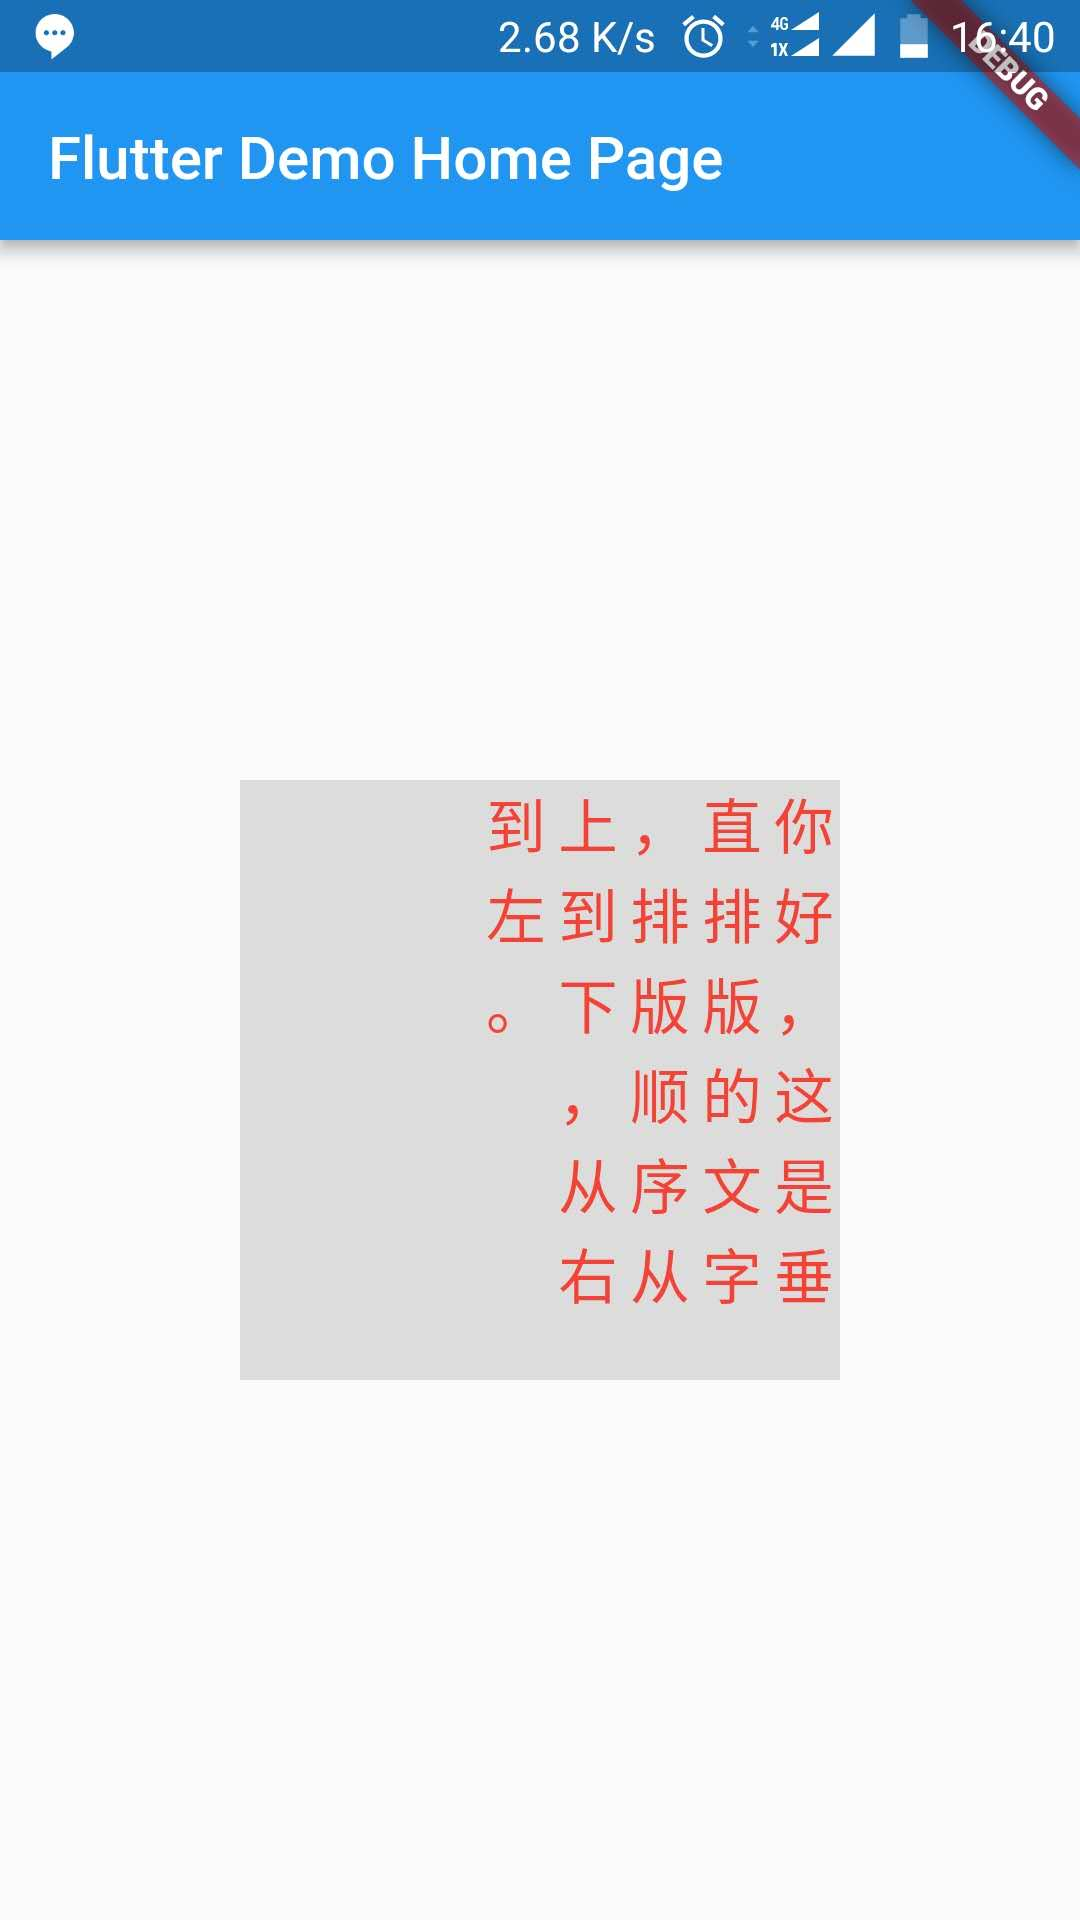
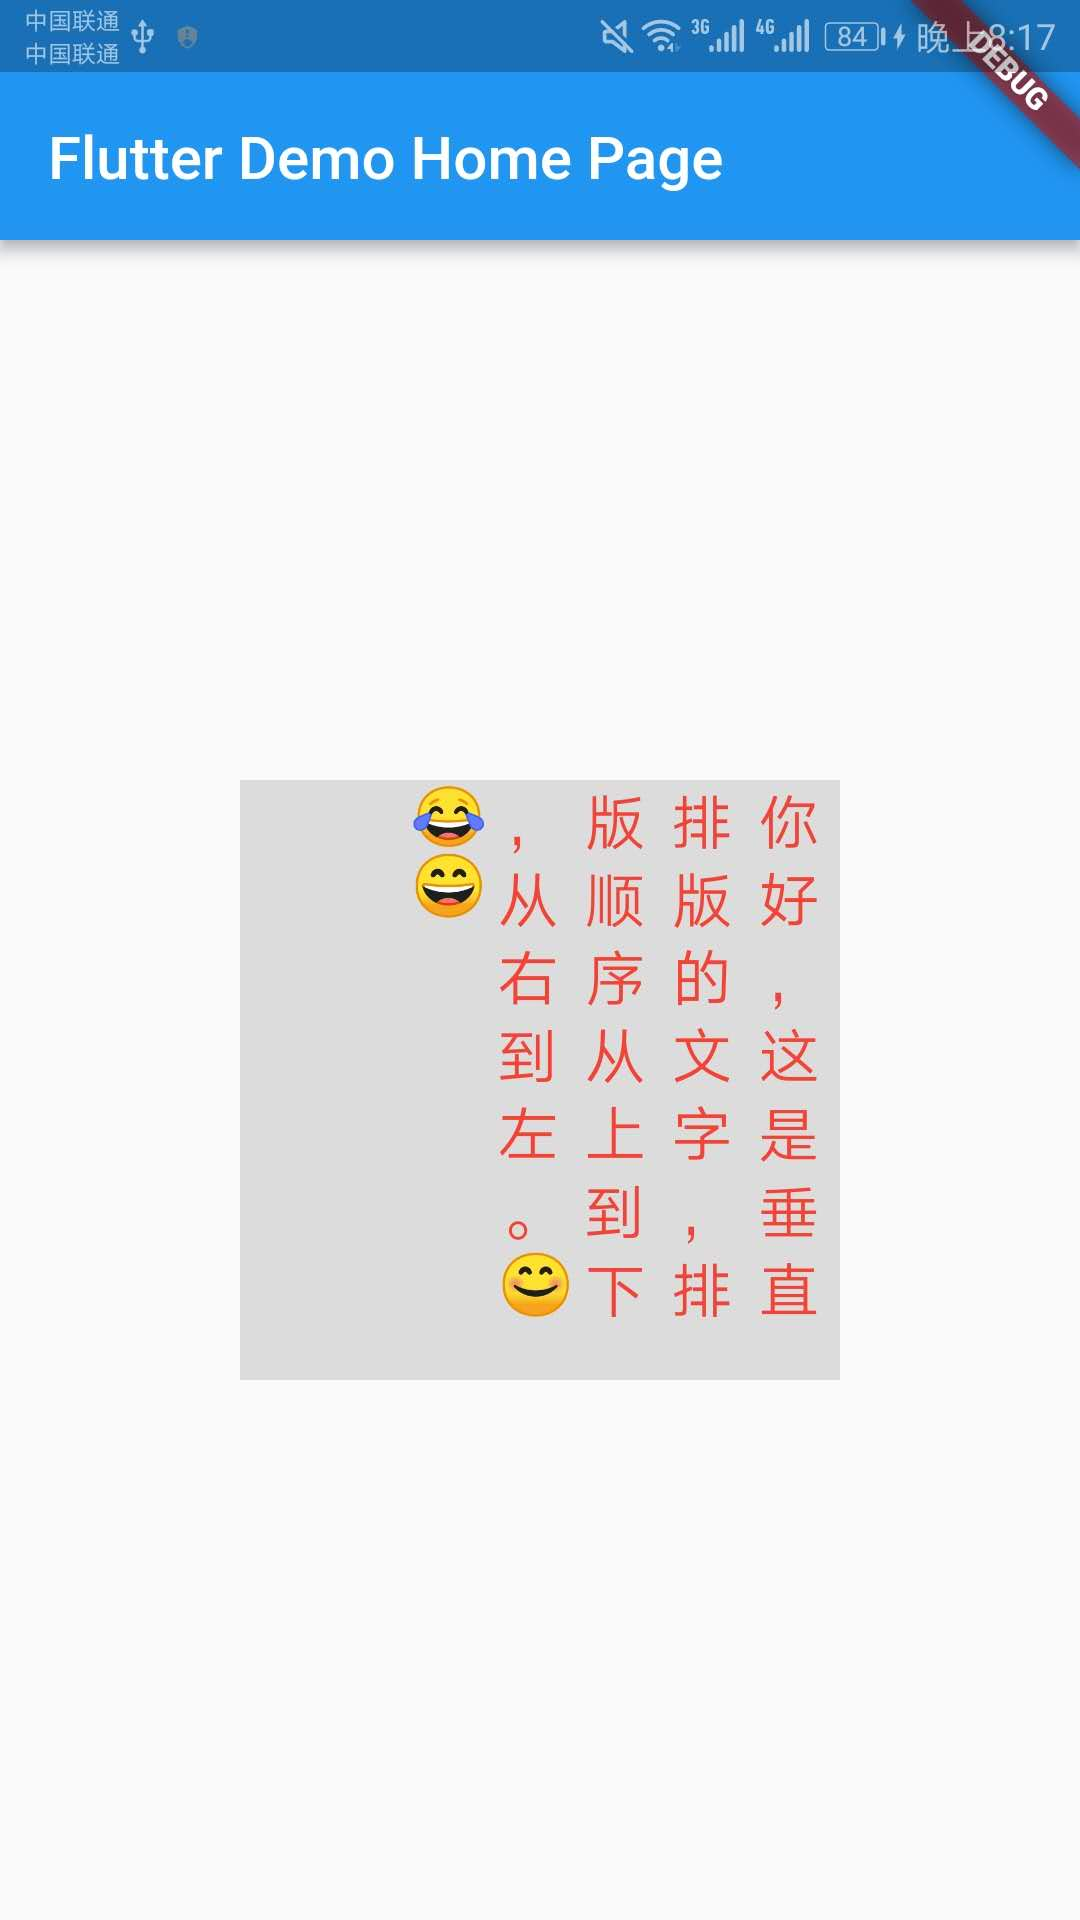
增加对emoji的支持

Changed region(s): [[0.3667, 0.4062, 0.7639, 0.6875], [0.4583, 0.0, 0.9778, 0.0312], [0.0306, 0.0, 0.1833, 0.0312]]

diff --git a/lib/vertival_text.dart b/lib/vertival_text.dart
@@ -26,8 +26,9 @@ class VerticalText extends CustomPainter {
 
     maxWidth = findMaxWidth(text, textStyle);
 
-    for (int i = 0; i < text.length; i++) {
-      TextSpan span = new TextSpan(style: textStyle, text: text[i]);
+    text.runes.forEach((rune) {
+      String str = new String.fromCharCode(rune);
+      TextSpan span = new TextSpan(style: textStyle, text: str);
       TextPainter tp = new TextPainter(
           text: span,
           textAlign: TextAlign.center,
@@ -45,32 +46,35 @@ class VerticalText extends CustomPainter {
       }
 
       if (offsetX < -maxWidth) {
-        break;
+        return;
       }
 
       tp.paint(canvas, new Offset(offsetX, offsetY));
       offsetY += tp.height;
-    }
+    });
   }
 
   double findMaxWidth(String text, TextStyle style) {
     double maxWidth = 0;
-    for (int i = 0; i < text.length; i++) {
-      TextSpan span = new TextSpan(style: style, text: text[i]);
+
+    text.runes.forEach((rune) {
+      String str = new String.fromCharCode(rune);
+      TextSpan span = new TextSpan(style: style, text: str);
       TextPainter tp = new TextPainter(
           text: span,
           textAlign: TextAlign.center,
           textDirection: TextDirection.ltr);
       tp.layout();
       maxWidth = max(maxWidth, tp.width);
-    }
+    });
+
     return maxWidth;
   }
 
   @override
   bool shouldRepaint(VerticalText oldDelegate) {
     return oldDelegate.text != text ||
-        oldDelegate.textStyle != textStyle||
+        oldDelegate.textStyle != textStyle ||
         oldDelegate.width != width ||
         oldDelegate.height != height;
   }

diff --git a/lib/main.dart b/lib/main.dart
@@ -42,7 +42,7 @@ class _MyHomePageState extends State<MyHomePage> {
               height: 200,
               child: CustomPaint(
                 painter: VerticalText(
-                  text: "你好，这是垂直排版的文字，排版顺序从上到下，从右到左。",
+                  text: "你好，这是垂直排版的文字，排版顺序从上到下，从右到左。😊😂😄",
                   textStyle: TextStyle(
                       color: Colors.red,
                       fontSize: 20,

diff --git a/README.md b/README.md
@@ -2,8 +2,8 @@
 
 A new Flutter application.
 
-Aligns Text Vertical from right-top to left bottom.
-排版文字从右往左。
+Aligns Text Vertical from right-top to left bottom.support emoji.
+排版文字从右往左。支持emoji。
 
 Screenshot
 
